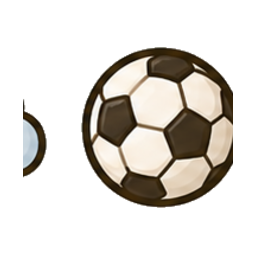
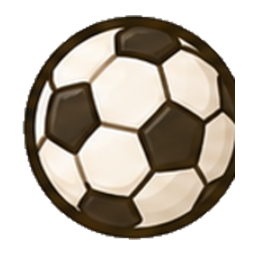
fix: wire+clean soccer ball, simpler Visit Barn button, Lucky Pig quest counting
- Soccer ball: cleaned the orphaned 256px glyph (stripped a stray blue sliver,
  re-centered) and wired soccer_ball into HAT_IMAGES so it renders real art.
- Visit button: "Visit {long title}'s Barn" -> a simple, prominent "Visit Barn"
  (sticker shadow, bigger text + barn icon).
- Lucky Pig quests never counted: the ~5% client-rolled Lucky Pig users SEE wrote
  nothing the quests read (they count daily_lucky_claims — the rare lucky-NUMBER
  mechanic). Record each pig in a new lucky_pig_hits table (record_lucky_pig_hit,
  called from Barn.tsx) and make the lucky_lover achievement + lucky_hog bounty
  count it too (try_claim_achievements / my_achievements / my_weekly_bounties
  carried verbatim + a union; triggers reuse the existing checks). daily_lucky_claims
  + its feed/gates untouched. Server migration 20260674 (needs push).

diff --git a/components/UserSheet.tsx b/components/UserSheet.tsx
@@ -507,10 +507,10 @@ export function UserSheet({ targetUserId, onDismiss, onFriendshipChanged }: Prop
 											</View>
 										</View>
 									) : (
-										<Pressable onPress={() => setShowVisit(true)} style={({ pressed }) => [styles.visitBtn, pressed && { opacity: 0.8 }]}>
+										<Pressable onPress={() => setShowVisit(true)} style={({ pressed }) => [styles.visitBtn, pressed && { opacity: 0.85 }]}>
 											<View style={styles.visitBtnRow}>
-												<Icon name="tabBarn" size={18} color={WHIMSY.ink} />
-												<Text style={styles.visitBtnText}>Visit {formatHandle(stats)}'s Barn</Text>
+												<Icon name="tabBarn" size={24} color={WHIMSY.ink} />
+												<Text style={styles.visitBtnText}>Visit Barn</Text>
 											</View>
 										</Pressable>
 									)}
@@ -1058,12 +1058,13 @@ const styles = StyleSheet.create({
 	ritualToggleText: { fontFamily: FONTS.whimsy, fontSize: 13, color: WHIMSY.mute },
 	ritualToggleTextActive: { color: WHIMSY.ink },
 	visitBtn: {
+		...STICKER_SHADOW,
 		alignSelf: "stretch",
 		backgroundColor: WHIMSY.sky,
-		borderWidth: 2,
+		borderWidth: 2.5,
 		borderColor: WHIMSY.ink,
-		borderRadius: 14,
-		paddingVertical: 10,
+		borderRadius: 16,
+		paddingVertical: 15,
 		alignItems: "center",
 		marginBottom: 12,
 	},
@@ -1071,9 +1072,9 @@ const styles = StyleSheet.create({
 		flexDirection: "row",
 		alignItems: "center",
 		justifyContent: "center",
-		gap: 7,
+		gap: 9,
 	},
-	visitBtnText: { fontFamily: FONTS.whimsy, fontSize: 16, color: WHIMSY.ink },
+	visitBtnText: { fontFamily: FONTS.whimsy, fontSize: 19, color: WHIMSY.ink },
 	// Disabled Visit button — muted fill + ink, reads as "can't right now".
 	visitBtnDisabled: {
 		backgroundColor: WHIMSY.cream2,

diff --git a/components/Barn.tsx b/components/Barn.tsx
@@ -537,6 +537,14 @@ export default function Barn() {
 		);
 		const bonusEarned = doubleEarned;
 
+		// A Lucky Pig fired (the 5% client roll users actually see). Record it
+		// server-side so the "Lucky Pig" quests count it — the lucky_hog bounty
+		// ("Hit a Lucky Pig this week") and the lucky_lover achievement read
+		// lucky_pig_hits. Best-effort fire-and-forget (rpc() swallows errors).
+		if (triggered) {
+			void rpc("record_lucky_pig_hit");
+		}
+
 		if (triggered && effects.sunBeam) {
 			// sun_beam is consume-on-first-lucky — clear it as soon
 			// as a lucky pig actually fires so subsequent rolls drop
